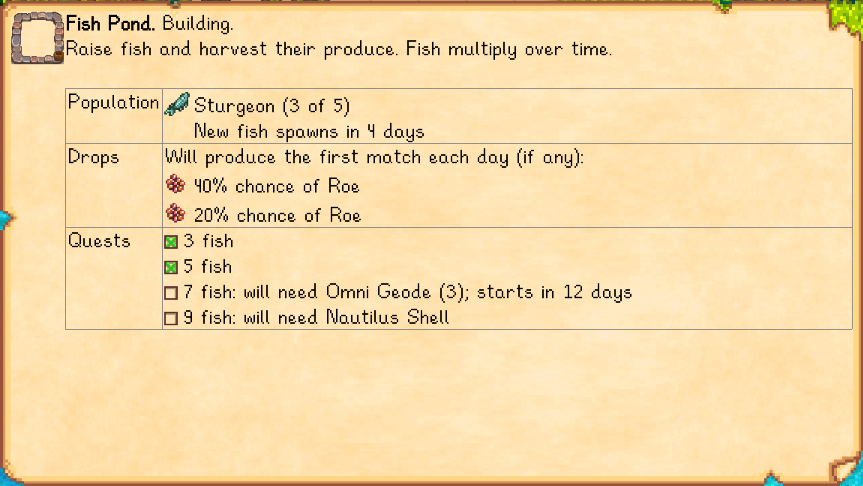
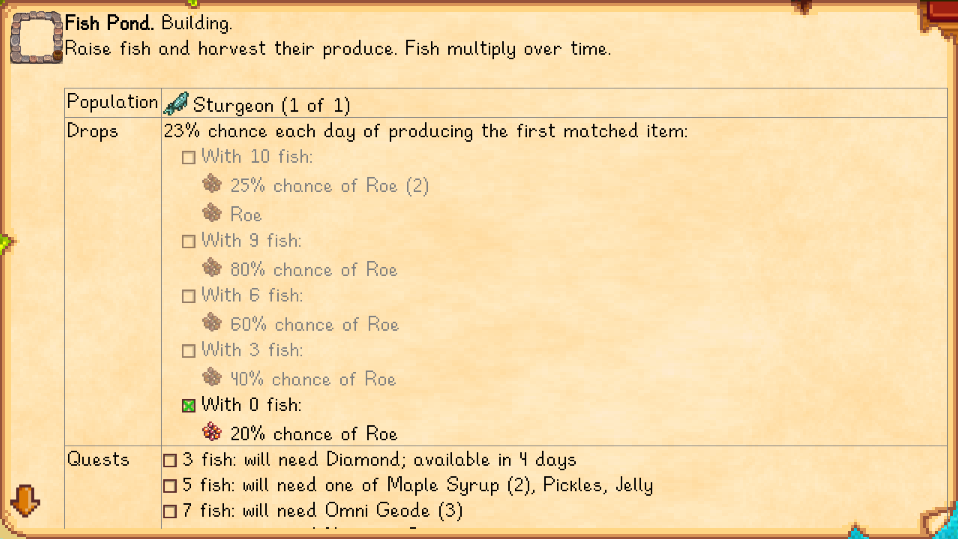
update docs (#82)

diff --git a/LookupAnything/README.md b/LookupAnything/README.md
@@ -61,6 +61,8 @@ The screenshots below are without progression mode, and may show spoilers.
   > ![](screenshots/villager.png)
   > ![](screenshots/child.png)
 
+  The optional progression mode hides gift tastes until you've learned them in-game.
+
 * See your farm animals' happiness, friendship, problems, and any produce ready for you.
   > ![](screenshots/farm-animal.png)
 
@@ -77,6 +79,9 @@ The screenshots below are without progression mode, and may show spoilers.
 * See what an item is used for, who likes getting it as a gift, and its dye color (and strength)
   when used in tailoring. Look up a movie ticket to see what's playing and who would like the movie.
   > ![](screenshots/item.png)
+
+* See where you can catch a fish:
+  > ![](screenshots/fish.png)
 
 * See when a crop will be ready to harvest.
   > ![](screenshots/crop.png)
@@ -103,6 +108,8 @@ The screenshots below are without progression mode, and may show spoilers.
   > ![](screenshots/mine-stone.png)
   > ![](screenshots/mine-ore.png)
   > ![](screenshots/mine-ice.png)
+
+* And much more!
 
 ### Where you can look things up
 You can look things up by pointing at them...

diff --git a/LookupAnything/release-notes.md b/LookupAnything/release-notes.md
@@ -2,11 +2,10 @@
 
 # Release notes
 ## Upcoming release
-* Added fish spawn rules to fish lookups (including special cases like mine and legendary fish).
+* Added fish spawn rules to fish lookups.
+* Added fish pond drops to fish lookups.
 * Added option to highlight item gift tastes that haven't been revealed in the NPC profile yet.
-* Added fish pond drops on fish item lookups.
-* Fish pond lookups now show drops that haven't been unlocked yet.
-* Fish pond lookups use a new format for drops to make it more clear how they're selected.
+* Revamped fish pond lookups to show locked drops and make the selection process more clear.
 * Fixed pet lookups showing untranslated 'cat' or 'dog' type.
 * Fixed hay in silos not counted for number owned or when highlighting owned gifts.
 * Fixed lookup on Caroline's tea bush showing wrong "days ago" value for date planted.
